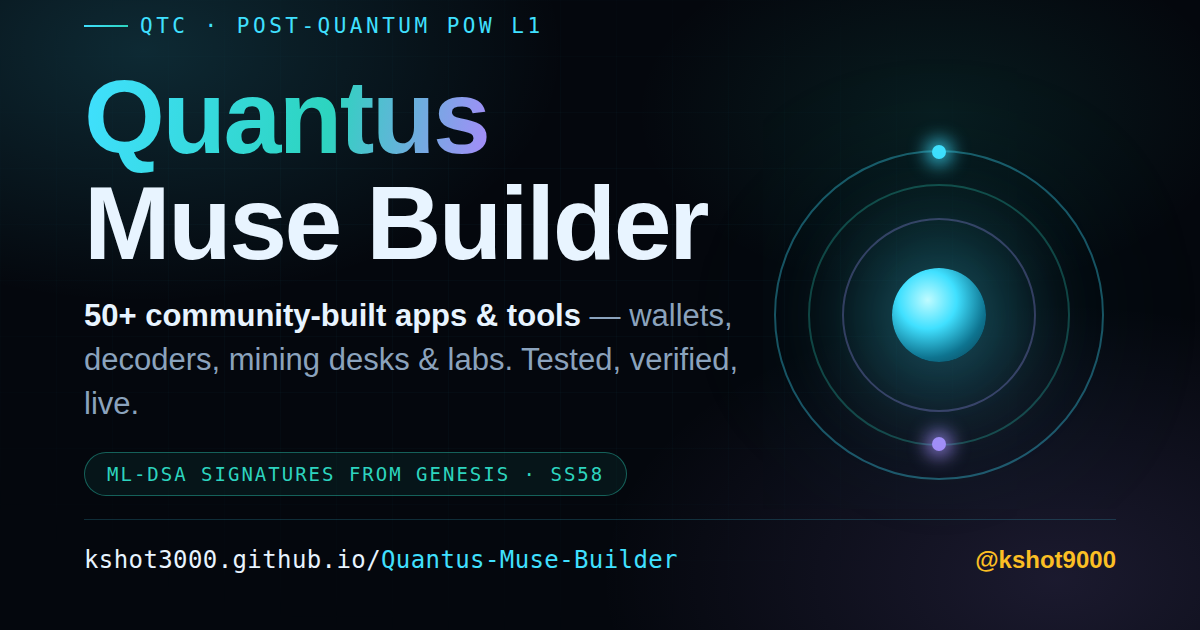
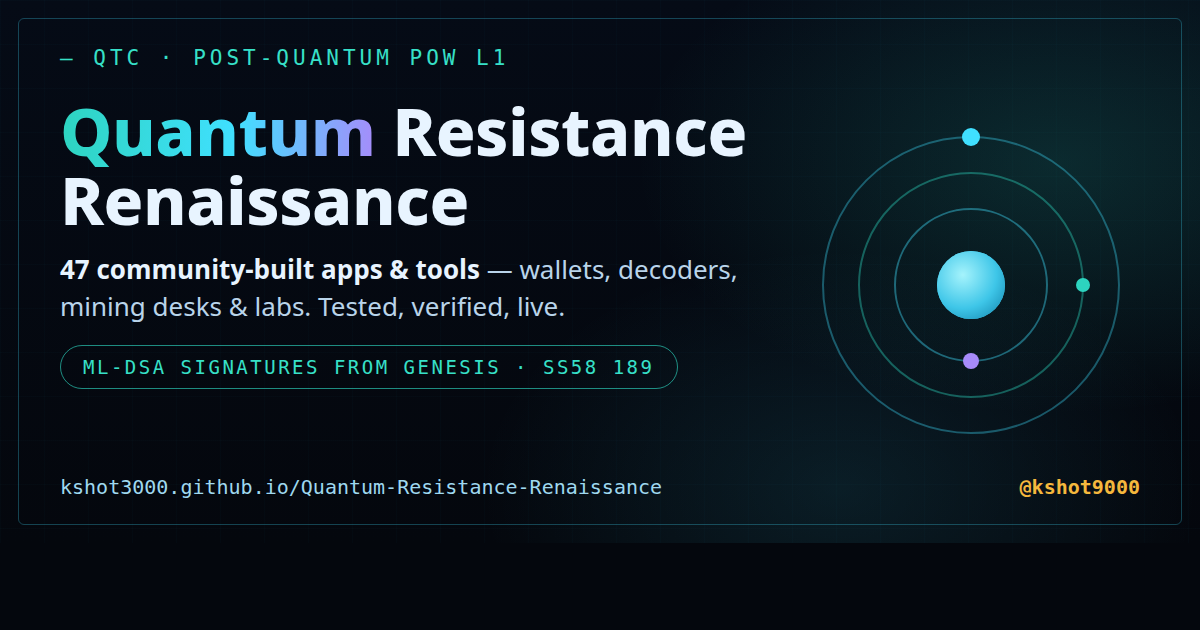
Rebrand to Quantum Resistance Renaissance: hub + all app titles/footers/signatures, nav wordmark, README, shared.css + core.js cache keys bumped, new OG share card

diff --git a/index.html b/index.html
@@ -3,21 +3,21 @@
 <head>
 <meta charset="UTF-8">
 <meta name="viewport" content="width=device-width, initial-scale=1.0">
-<title>Quantus Muse Builder — Apps for the Quantum-Era Chain</title>
+<title>Quantum Resistance Renaissance — Apps for the Quantum-Era Chain</title>
 <meta name="description" content="A builder hub shipping apps and tools for the Quantus blockchain: the post-quantum, proof-of-work L1 with ML-DSA signatures from the genesis block.">
 <meta name="theme-color" content="#04070d">
-<meta property="og:title" content="Quantus Muse Builder">
+<meta property="og:title" content="Quantum Resistance Renaissance">
 <meta property="og:description" content="Verified apps and tools for Quantus — the post-quantum PoW L1.">
 <meta property="og:type" content="website">
 <meta property="og:url" content="https://kshot3000.github.io/Quantum-Resistance-Renaissance/">
 <meta property="og:image" content="https://kshot3000.github.io/Quantum-Resistance-Renaissance/assets/og-card.png">
 <meta property="og:image:width" content="1200">
 <meta property="og:image:height" content="630">
-<meta property="og:image:alt" content="Quantus Muse Builder — 47 community-built QTC apps and tools">
+<meta property="og:image:alt" content="Quantum Resistance Renaissance — 47 community-built QTC apps and tools">
 <meta name="twitter:card" content="summary_large_image">
 <meta name="twitter:image" content="https://kshot3000.github.io/Quantum-Resistance-Renaissance/assets/og-card.png">
 <link rel="icon" href="assets/favicon.svg?v=1.16.0" type="image/svg+xml">
-<link rel="stylesheet" href="assets/shared.css?v=1.13.2">
+<link rel="stylesheet" href="assets/shared.css?v=1.13.3">
 <style>
 :root{
   --bg:#04070d;
@@ -302,7 +302,7 @@ footer .sig{margin-top:10px;font-size:12px;letter-spacing:.08em;opacity:.7}
         <ellipse cx="20" cy="20" rx="17" ry="6.5" stroke="#40e0ff" stroke-width="1.6" transform="rotate(60 20 20)"/>
         <ellipse cx="20" cy="20" rx="17" ry="6.5" stroke="#fbbf24" stroke-width="1.6" transform="rotate(120 20 20)"/>
       </svg>
-      <div>QUANTUS MUSE<small>briefing room for a post-quantum chain</small></div>
+      <div>QUANTUM RESISTANCE<small>renaissance · briefing room for a post-quantum chain</small></div>
     </a>
     <div class="nav-right">
       <div class="live-chip" id="liveChip" title="Live block height from the public Quantus indexer"><span class="dot"></span><span class="label">chain</span> <span id="liveHeight">…</span></div>
@@ -883,10 +883,10 @@ footer .sig{margin-top:10px;font-size:12px;letter-spacing:.08em;opacity:.7}
   </section>
 
   <footer>
-    Built by <a href="https://x.com/kshot9000" target="_blank" rel="noopener">@kshot9000</a> · <a href="https://github.com/Kshot3000" target="_blank" rel="noopener">github.com/Kshot3000</a> · <a href="https://github.com/Quantus-Network" target="_blank" rel="noopener">upstream org</a><br>
+    Built by <a href="https://x.com/kshot9000" target="_blank" rel="noopener">@kshot9000</a> · <a href="https://github.com/Kshot3000" target="_blank" rel="noopener">github.com/Kshot3000</a> · <a href="https://github.com/Quantus-Network" target="_blank" rel="noopener">@Quantus-Network</a><br>
     <span class="donate">Donate QTC <button class="addr" data-copy="qznY8nwuvWcCCVys4da1oQdysyh8YUZYRjRqgk3S8Wos8kbau" title="Click to copy">qznY8nwuvWcCCVys4da1oQdysyh8YUZYRjRqgk3S8Wos8kbau</button></span><br>
     Independent builder work — not affiliated with the Quantus team.
-    <div class="sig">QUANTUS MUSE BUILDER · POST-QUANTUM TOOLING</div>
+    <div class="sig">QUANTUM RESISTANCE RENAISSANCE · POST-QUANTUM TOOLING</div>
   </footer>
 </div>
 <script>

diff --git a/pages/distribution-planner/index.html b/pages/distribution-planner/index.html
@@ -4,7 +4,7 @@
 <meta charset="UTF-8">
 <meta name="viewport" content="width=device-width, initial-scale=1.0">
 <link rel="icon" href="../../assets/favicon.svg?v=1.16.0" type="image/svg+xml">
-<link rel="stylesheet" href="../../assets/shared.css?v=1.13.2">
+<link rel="stylesheet" href="../../assets/shared.css?v=1.13.3">
 <title>QTC Distribution Planner — batch airdrops &amp; payouts, planned to the byte</title>
 <meta name="description" content="QTC Distribution Planner: validate recipient SS58 addresses, compute exact planck amounts, split payouts into utility.batch_all batches, estimate fees from the runtime polynomial, and export CLI-ready batch files for quantus batch send.">
 <link rel="stylesheet" href="styles.css?v=1.21.1">
@@ -219,7 +219,7 @@
 
   <footer class="foot">
     <div class="foot-ico" aria-hidden="true">📤</div>
-    <p>QTC Distribution Planner · Quantus Muse Builder · batch semantics: Quantus-Network/quantus-cli (main, Sept 30, 2026)</p>
+    <p>QTC Distribution Planner · Quantum Resistance Renaissance · batch semantics: Quantus-Network/quantus-cli (main, Sept 30, 2026)</p>
     <p>
     Built by <a href="https://x.com/kshot9000" target="_blank" rel="noopener">@kshot9000</a> &middot; <a href="https://github.com/Kshot3000" target="_blank" rel="noopener">github.com/Kshot3000</a> &middot; <a href="https://github.com/Quantus-Network" target="_blank" rel="noopener">upstream org</a><br>
     <span class="donate">Donate QTC <button class="addr" data-copy="qznY8nwuvWcCCVys4da1oQdysyh8YUZYRjRqgk3S8Wos8kbau" title="Click to copy">qznY8nwuvWcCCVys4da1oQdysyh8YUZYRjRqgk3S8Wos8kbau</button></span><br>
@@ -232,7 +232,7 @@
 <script src="js/wordlist.js?v=1.21.0"></script>
 <script src="js/checkphrase-core.js?v=1.21.0"></script>
 <script src="js/ss58.js?v=1.21.0"></script>
-<script src="js/core.js?v=1.21.0"></script>
+<script src="js/core.js?v=1.21.1"></script>
 <script src="js/app.js?v=1.21.1"></script>
 </body>
 </html>

diff --git a/pages/legacy-vault/index.html b/pages/legacy-vault/index.html
@@ -4,8 +4,8 @@
 <meta charset="UTF-8">
 <meta name="viewport" content="width=device-width, initial-scale=1.0">
 <link rel="icon" href="../../assets/favicon.svg?v=1.16.0" type="image/svg+xml">
-<link rel="stylesheet" href="../../assets/shared.css?v=1.13.2">
-<title>QTC Legacy Vault — Quantus Muse Builder</title>
+<link rel="stylesheet" href="../../assets/shared.css?v=1.13.3">
+<title>QTC Legacy Vault — Quantum Resistance Renaissance</title>
 <meta name="description" content="The inheritance desk for the quantum era: split your Quantus secret with real Shamir's Secret Sharing (GF(2^8), cross-checked against an independent implementation), build a beneficiary plan, and print a letter your heirs can actually follow. 100% client-side — secrets never leave this browser.">
 <meta name="theme-color" content="#0b0906">
 <link rel="stylesheet" href="styles.css?v=1.26.1">
@@ -383,7 +383,7 @@
   <div class="foot-built">Built by <a href="https://x.com/kshot9000" target="_blank" rel="noopener">@kshot9000</a> · <a href="https://github.com/Kshot3000" target="_blank" rel="noopener">github.com/Kshot3000</a> · <a href="https://github.com/Quantus-Network" target="_blank" rel="noopener">upstream org</a></div>
   <div class="foot-donate">Donate QTC <button class="addr" data-copy="qznY8nwuvWcCCVys4da1oQdysyh8YUZYRjRqgk3S8Wos8kbau" title="Click to copy">qznY8nwuvWcCCVys4da1oQdysyh8YUZYRjRqgk3S8Wos8kbau</button> <span class="copied" hidden>copied ✓</span></div>
   <div class="foot-disc">Independent builder work — not affiliated with the Quantus team. Not legal or financial advice.</div>
-  <div class="sig">QUANTUS MUSE BUILDER · LEGACY VAULT · SHAMIR OVER GF(2⁸)</div>
+  <div class="sig">QUANTUM RESISTANCE RENAISSANCE · LEGACY VAULT · SHAMIR OVER GF(2⁸)</div>
 </footer>
 
 <script src="js/shamir.js?v=1.26.0"></script>

diff --git a/pages/whale-watch/index.html b/pages/whale-watch/index.html
@@ -4,7 +4,7 @@
 <meta charset="UTF-8">
 <meta name="viewport" content="width=device-width, initial-scale=1.0">
 <link rel="icon" href="../../assets/favicon.svg?v=1.16.0" type="image/svg+xml">
-<link rel="stylesheet" href="../../assets/shared.css?v=1.13.2">
+<link rel="stylesheet" href="../../assets/shared.css?v=1.13.3">
 <title>QTC Whale Watch — supply concentration &amp; whale movements on Quantus</title>
 <meta name="description" content="QTC Whale Watch: where the Quantus supply actually sits — the genesis vesting pool, the circulating rich list, balance-bracket distribution, and the largest on-chain transfers, all computed from the public Subsquid indexer and labeled with snapshot time.">
 <link rel="stylesheet" href="styles.css?v=1.19.1">
@@ -212,7 +212,7 @@
 
   <footer class="foot">
     <div class="foot-whale" aria-hidden="true">🐋</div>
-    <p>QTC Whale Watch · Quantus Muse Builder · data: Subsquid indexer, snapshot <span id="foot-time">—</span></p>
+    <p>QTC Whale Watch · Quantum Resistance Renaissance · data: Subsquid indexer, snapshot <span id="foot-time">—</span></p>
     <p>
     Built by <a href="https://x.com/kshot9000" target="_blank" rel="noopener">@kshot9000</a> &middot; <a href="https://github.com/Kshot3000" target="_blank" rel="noopener">github.com/Kshot3000</a> &middot; <a href="https://github.com/Quantus-Network" target="_blank" rel="noopener">upstream org</a><br>
     <span class="donate">Donate QTC <button class="addr" data-copy="qznY8nwuvWcCCVys4da1oQdysyh8YUZYRjRqgk3S8Wos8kbau" title="Click to copy">qznY8nwuvWcCCVys4da1oQdysyh8YUZYRjRqgk3S8Wos8kbau</button></span><br>

diff --git a/pages/airgap-desk/index.html b/pages/airgap-desk/index.html
@@ -4,8 +4,8 @@
 <meta charset="UTF-8">
 <meta name="viewport" content="width=device-width, initial-scale=1.0">
 <link rel="icon" href="../../assets/favicon.svg?v=1.16.0" type="image/svg+xml">
-<link rel="stylesheet" href="../../assets/shared.css?v=1.13.2">
-<title>QTC Airgap Desk — Offline Signing Lab · Quantus Muse Builder</title>
+<link rel="stylesheet" href="../../assets/shared.css?v=1.13.3">
+<title>QTC Airgap Desk — Offline Signing Lab · Quantum Resistance Renaissance</title>
 <meta name="description" content="Sign QTC transfers on a machine that never touches the network: issue a chain ticket on your hot device, build and sign the extrinsic offline with real ML-DSA keys, then verify the signature locally and broadcast. 100% client-side.">
 <meta name="theme-color" content="#04060d">
 <link rel="stylesheet" href="styles.css?v=1.35.1">
@@ -340,7 +340,7 @@
     Built by <a href="https://x.com/kshot9000" target="_blank" rel="noopener">@kshot9000</a> · <a href="https://github.com/Kshot3000" target="_blank" rel="noopener">github.com/Kshot3000</a> · <a href="https://github.com/Quantus-Network" target="_blank" rel="noopener">upstream org</a><br>
     <span class="donate">Donate QTC <button class="addr" data-copy="qznY8nwuvWcCCVys4da1oQdysyh8YUZYRjRqgk3S8Wos8kbau" title="Click to copy">qznY8nwuvWcCCVys4da1oQdysyh8YUZYRjRqgk3S8Wos8kbau</button></span><br>
     Independent builder work — not affiliated with the Quantus team.
-    <div class="sig">QUANTUS MUSE BUILDER · OFFLINE SIGNING LAB</div>
+    <div class="sig">QUANTUM RESISTANCE RENAISSANCE · OFFLINE SIGNING LAB</div>
   </footer>
 </main>
 

diff --git a/pages/portfolio-desk/index.html b/pages/portfolio-desk/index.html
@@ -4,8 +4,8 @@
 <meta charset="UTF-8">
 <meta name="viewport" content="width=device-width, initial-scale=1.0">
 <link rel="icon" href="../../assets/favicon.svg?v=1.16.0" type="image/svg+xml">
-<link rel="stylesheet" href="../../assets/shared.css?v=1.13.2">
-<title>QTC Portfolio Desk — Quantus Muse Builder</title>
+<link rel="stylesheet" href="../../assets/shared.css?v=1.13.3">
+<title>QTC Portfolio Desk — Quantum Resistance Renaissance</title>
 <meta name="description" content="The multi-wallet command center for Quantus: aggregate every QTC address you control into one portfolio — live-first balances, liquid vs vesting-locked splits, allocation chart, transfer activity, mining attribution, CSV/JSON export — 100% client-side.">
 <meta name="theme-color" content="#060d0b">
 <link rel="stylesheet" href="styles.css?v=1.31.1">
@@ -185,7 +185,7 @@
     Built by <a href="https://x.com/kshot9000" target="_blank" rel="noopener">@kshot9000</a> &middot; <a href="https://github.com/Kshot3000" target="_blank" rel="noopener">github.com/Kshot3000</a> &middot; <a href="https://github.com/Quantus-Network" target="_blank" rel="noopener">upstream org</a><br>
     <span class="donate">Donate QTC <button class="addr" data-copy="qznY8nwuvWcCCVys4da1oQdysyh8YUZYRjRqgk3S8Wos8kbau" title="Click to copy">qznY8nwuvWcCCVys4da1oQdysyh8YUZYRjRqgk3S8Wos8kbau</button></span><br>
     Independent builder work — not affiliated with the Quantus team.
-    <div class="sig">QUANTUS MUSE BUILDER · PORTFOLIO DESK</div>
+    <div class="sig">QUANTUM RESISTANCE RENAISSANCE · PORTFOLIO DESK</div>
   </footer>
 </main>
 

diff --git a/pages/contact-vault/index.html b/pages/contact-vault/index.html
@@ -4,8 +4,8 @@
 <meta charset="UTF-8">
 <meta name="viewport" content="width=device-width, initial-scale=1.0">
 <link rel="icon" href="../../assets/favicon.svg?v=1.16.0" type="image/svg+xml">
-<link rel="stylesheet" href="../../assets/shared.css?v=1.13.2">
-<title>QTC Contact Vault — Quantus Muse Builder</title>
+<link rel="stylesheet" href="../../assets/shared.css?v=1.13.3">
+<title>QTC Contact Vault — Quantum Resistance Renaissance</title>
 <meta name="description" content="The address book with a built-in poisoning alarm: save Quantus contacts with human checkphrases, verify pastes against the vault, simulate address-poisoning and clipboard-swap attacks, batch-verify address lists, and keep encrypted backups. 100% client-side.">
 <meta name="theme-color" content="#0a0c0e">
 <link rel="stylesheet" href="styles.css?v=1.25.1">
@@ -317,7 +317,7 @@
     Built by <a href="https://x.com/kshot9000" target="_blank" rel="noopener">@kshot9000</a> &middot; <a href="https://github.com/Kshot3000" target="_blank" rel="noopener">github.com/Kshot3000</a> &middot; <a href="https://github.com/Quantus-Network" target="_blank" rel="noopener">upstream org</a><br>
     <span class="donate">Donate QTC <button class="addr" data-copy="qznY8nwuvWcCCVys4da1oQdysyh8YUZYRjRqgk3S8Wos8kbau" title="Click to copy">qznY8nwuvWcCCVys4da1oQdysyh8YUZYRjRqgk3S8Wos8kbau</button></span><br>
     Independent builder work — not affiliated with the Quantus team.
-    <div class="sig">QUANTUS MUSE BUILDER · CONTACT VAULT</div>
+    <div class="sig">QUANTUM RESISTANCE RENAISSANCE · CONTACT VAULT</div>
   </footer>
 </main>
 

diff --git a/pages/safesend/index.html b/pages/safesend/index.html
@@ -4,8 +4,8 @@
 <meta charset="UTF-8">
 <meta name="viewport" content="width=device-width, initial-scale=1.0">
 <link rel="icon" href="../../assets/favicon.svg?v=1.16.0" type="image/svg+xml">
-<link rel="stylesheet" href="../../assets/shared.css?v=1.13.2">
-<title>QTC SafeSend Lab — Quantus Muse Builder</title>
+<link rel="stylesheet" href="../../assets/shared.css?v=1.13.3">
+<title>QTC SafeSend Lab — Quantum Resistance Renaissance</title>
 <meta name="description" content="Quantus reversible payments, made tangible: a real checkphrase address verifier (upstream algorithm, 1,171 test vectors green), an interactive reversible-transfer simulator, the high-security account system explained, and the pallet call reference.">
 <meta name="theme-color" content="#060d0b">
 <link rel="stylesheet" href="styles.css?v=1.0.2">
@@ -284,7 +284,7 @@
     Built by <a href="https://x.com/kshot9000" target="_blank" rel="noopener">@kshot9000</a> &middot; <a href="https://github.com/Kshot3000" target="_blank" rel="noopener">github.com/Kshot3000</a> &middot; <a href="https://github.com/Quantus-Network" target="_blank" rel="noopener">upstream org</a><br>
     <span class="donate">Donate QTC <button class="addr" data-copy="qznY8nwuvWcCCVys4da1oQdysyh8YUZYRjRqgk3S8Wos8kbau" title="Click to copy">qznY8nwuvWcCCVys4da1oQdysyh8YUZYRjRqgk3S8Wos8kbau</button></span><br>
     Independent builder work — not affiliated with the Quantus team.
-    <div class="sig">QUANTUS MUSE BUILDER · SAFESEND LAB</div>
+    <div class="sig">QUANTUM RESISTANCE RENAISSANCE · SAFESEND LAB</div>
   </footer>
 </main>
 

diff --git a/pages/multisig-vault/index.html b/pages/multisig-vault/index.html
@@ -4,7 +4,7 @@
 <meta charset="UTF-8">
 <meta name="viewport" content="width=device-width, initial-scale=1.0">
 <link rel="icon" href="../../assets/favicon.svg?v=1.16.0" type="image/svg+xml">
-<link rel="stylesheet" href="../../assets/shared.css?v=1.13.2">
+<link rel="stylesheet" href="../../assets/shared.css?v=1.13.3">
 <title>QTC MultiSig Vault — shared custody on the real pallet, byte-exact</title>
 <meta name="description" content="QTC MultiSig Vault: derive exact on-chain multisig addresses from the real Quantus pallet-19 derivation, price every fee from runtime constants, build byte-exact unsigned call payloads for propose/approve/execute, and track proposals.">
 <link rel="stylesheet" href="styles.css?v=1.22.3">
@@ -297,7 +297,7 @@
 
   <footer class="foot">
     <div class="foot-ico" aria-hidden="true">🔐</div>
-    <p>QTC MultiSig Vault · Quantus Muse Builder · pallet math: Quantus-Network/chain (main, Sept 30, 2026)</p>
+    <p>QTC MultiSig Vault · Quantum Resistance Renaissance · pallet math: Quantus-Network/chain (main, Sept 30, 2026)</p>
     <p>
     Built by <a href="https://x.com/kshot9000" target="_blank" rel="noopener">@kshot9000</a> &middot; <a href="https://github.com/Kshot3000" target="_blank" rel="noopener">github.com/Kshot3000</a> &middot; <a href="https://github.com/Quantus-Network" target="_blank" rel="noopener">upstream org</a><br>
     <span class="donate">Donate QTC <button class="addr" data-copy="qznY8nwuvWcCCVys4da1oQdysyh8YUZYRjRqgk3S8Wos8kbau" title="Click to copy">qznY8nwuvWcCCVys4da1oQdysyh8YUZYRjRqgk3S8Wos8kbau</button></span><br>

diff --git a/pages/mempool-desk/index.html b/pages/mempool-desk/index.html
@@ -4,8 +4,8 @@
 <meta charset="UTF-8">
 <meta name="viewport" content="width=device-width, initial-scale=1.0">
 <link rel="icon" href="../../assets/favicon.svg?v=1.16.0" type="image/svg+xml">
-<link rel="stylesheet" href="../../assets/shared.css?v=1.13.2">
-<title>QTC Mempool Desk — Quantus Muse Builder</title>
+<link rel="stylesheet" href="../../assets/shared.css?v=1.13.3">
+<title>QTC Mempool Desk — Quantum Resistance Renaissance</title>
 <meta name="description" content="The transaction-pool command center for Quantus: connect to any node, watch the live mempool, get txWatch zero-confirmation signals on your addresses, and estimate real fees — 100% client-side, nothing simulated.">
 <meta name="theme-color" content="#04070d">
 <link rel="stylesheet" href="styles.css?v=1.32.1">
@@ -254,7 +254,7 @@
     Built by <a href="https://x.com/kshot9000" target="_blank" rel="noopener">@kshot9000</a> &middot; <a href="https://github.com/Kshot3000" target="_blank" rel="noopener">github.com/Kshot3000</a> &middot; <a href="https://github.com/Quantus-Network" target="_blank" rel="noopener">upstream org</a><br>
     <span class="donate">Donate QTC <button class="addr" data-copy="qznY8nwuvWcCCVys4da1oQdysyh8YUZYRjRqgk3S8Wos8kbau" title="Click to copy">qznY8nwuvWcCCVys4da1oQdysyh8YUZYRjRqgk3S8Wos8kbau</button></span><br>
     Independent builder work — not affiliated with the Quantus team.
-    <div class="sig">QUANTUS MUSE BUILDER · MEMPOOL DESK</div>
+    <div class="sig">QUANTUM RESISTANCE RENAISSANCE · MEMPOOL DESK</div>
   </footer>
 </main>
 

diff --git a/pages/watchtower/index.html b/pages/watchtower/index.html
@@ -4,8 +4,8 @@
 <meta charset="UTF-8">
 <meta name="viewport" content="width=device-width, initial-scale=1.0">
 <link rel="icon" href="../../assets/favicon.svg?v=1.16.0" type="image/svg+xml">
-<link rel="stylesheet" href="../../assets/shared.css?v=1.13.2">
-<title>QTC Watchtower — Quantus Muse Builder</title>
+<link rel="stylesheet" href="../../assets/shared.css?v=1.13.3">
+<title>QTC Watchtower — Quantum Resistance Renaissance</title>
 <meta name="description" content="The chain & wallet watcher desk for Quantus: watch any SS58 address, build balance/transfer/governance/chain-health alert rules, scan against live-first chain data, and get browser notifications — 100% client-side.">
 <meta name="theme-color" content="#07090f">
 <link rel="stylesheet" href="styles.css?v=1.30.1">
@@ -244,7 +244,7 @@
     Built by <a href="https://x.com/kshot9000" target="_blank" rel="noopener">@kshot9000</a> &middot; <a href="https://github.com/Kshot3000" target="_blank" rel="noopener">github.com/Kshot3000</a> &middot; <a href="https://github.com/Quantus-Network" target="_blank" rel="noopener">upstream org</a><br>
     <span class="donate">Donate QTC <button class="addr" data-copy="qznY8nwuvWcCCVys4da1oQdysyh8YUZYRjRqgk3S8Wos8kbau" title="Click to copy">qznY8nwuvWcCCVys4da1oQdysyh8YUZYRjRqgk3S8Wos8kbau</button></span><br>
     Independent builder work — not affiliated with the Quantus team.
-    <div class="sig">QUANTUS MUSE BUILDER · WATCHTOWER</div>
+    <div class="sig">QUANTUM RESISTANCE RENAISSANCE · WATCHTOWER</div>
   </footer>
 </main>
 

diff --git a/pages/key-forge/index.html b/pages/key-forge/index.html
@@ -4,7 +4,7 @@
 <meta charset="UTF-8">
 <meta name="viewport" content="width=device-width, initial-scale=1.0">
 <link rel="icon" href="../../assets/favicon.svg?v=1.16.0" type="image/svg+xml">
-<link rel="stylesheet" href="../../assets/shared.css?v=1.13.2">
+<link rel="stylesheet" href="../../assets/shared.css?v=1.13.3">
 <title>QTC Quantum Key Forge — Real ML-DSA Keypairs for Quantus</title>
 <meta name="description" content="Forge real post-quantum keypairs for Quantus in your browser: ML-DSA-65/87 key generation, Poseidon2-Goldilocks account-ID derivation and SS58 (prefix 189) address encoding — the exact upstream derivation, verified against 45 test vectors. Inspect addresses, sign and verify messages. 100% client-side.">
 <meta name="theme-color" content="#0b0616">
@@ -278,7 +278,7 @@
     Built by <a href="https://x.com/kshot9000" target="_blank" rel="noopener">@kshot9000</a> &middot; <a href="https://github.com/Kshot3000" target="_blank" rel="noopener">github.com/Kshot3000</a> &middot; <a href="https://github.com/Quantus-Network" target="_blank" rel="noopener">upstream org</a><br>
     <span class="donate">Donate QTC <button class="addr" data-copy="qznY8nwuvWcCCVys4da1oQdysyh8YUZYRjRqgk3S8Wos8kbau" title="Click to copy">qznY8nwuvWcCCVys4da1oQdysyh8YUZYRjRqgk3S8Wos8kbau</button></span><br>
     Independent builder work — not affiliated with the Quantus team.
-    <div class="sig">QUANTUS MUSE BUILDER · KEY FORGE</div>
+    <div class="sig">QUANTUM RESISTANCE RENAISSANCE · KEY FORGE</div>
   </footer>
 </main>
 
